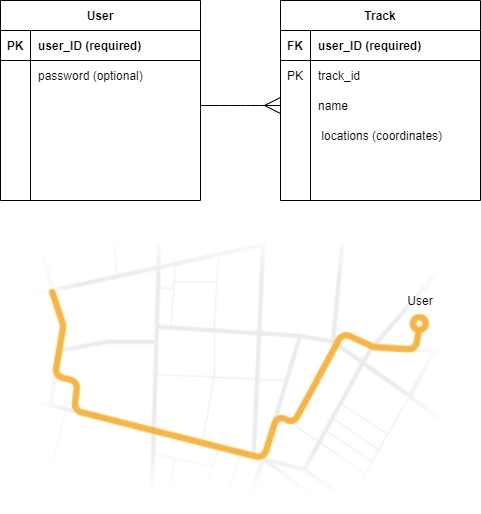
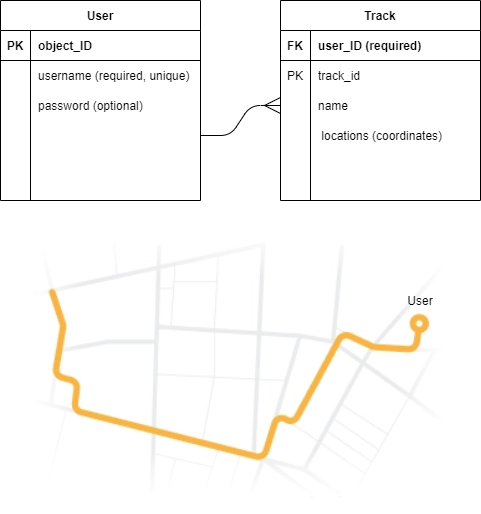
update User model

Changed region(s): [[0.0936, 0.0623, 0.4054, 0.1556], [0.0624, 0.1868, 0.3119, 0.2179], [0.499, 0.1868, 0.5301, 0.2179]]

diff --git a/methods/actions.js b/methods/actions.js
@@ -5,19 +5,19 @@ var config = require('../config/dbconfig')
 var functions = {
     // Register
     addNew: function (req, res) {
-        if ((!req.body._id)) { // || (!req.body.password) 
+        if ((!req.body.username)) { // || (!req.body.password) 
             res.json({success: false, msg: 'Enter all fields'})
         }
         else {
             var newUser = User({
-                _id: req.body._id,
+                username: req.body.username,
                 password: req.body.password
             });
             newUser.save(function (err, newUser) {
                 if (err) {
                     if(err.code == '11000'){
                         res.json({
-                            msg:'This session ID has already been registered, please change your session ID',
+                            msg:'This username has already been registered, please change your username',
                             success:false
                         })
                     }
@@ -34,7 +34,7 @@ var functions = {
     // Login
     authenticate: function (req, res) {
         User.findOne({
-            _id: req.body._id
+            username: req.body.username
         }, function (err, user) {
                 if (err) throw err
                 if (!user) {
@@ -58,7 +58,7 @@ var functions = {
         if (req.headers.authorization && req.headers.authorization.split(' ')[0] === 'Bearer') {
             var token = req.headers.authorization.split(' ')[1]
             var decodedtoken = jwt.decode(token, config.secret)
-            return res.json({success: true, msg: 'Hello ' + decodedtoken._id})
+            return res.json({success: true, msg: 'Hello ' + decodedtoken.username})
         }
         else {
             return res.json({success: false, msg: 'No Headers'})

diff --git a/models/user.js b/models/user.js
@@ -3,14 +3,12 @@ var Schema = mongoose.Schema;
 var bcrypt = require('bcrypt')
 var userSchema = new Schema(
     {
-        _id: {
+        username: {
             type: String,
-            required: [true, 'ID field is required'],
+            required: [true, 'Username field is required'],
             unique: true,
-            trim: true,
-            maxlength: [10, 'ID must be less than 10 chars']
         },
-        password: {
+        password: { // optional
             type: String,
         }
     },

diff --git a/models/track.js b/models/track.js
@@ -1,5 +1,6 @@
 const mongoose = require('mongoose');
 
+// Geolocation API
 const pointSchema = new mongoose.Schema({
     timestamp:Number,
     coords:{

diff --git a/README.md b/README.md
@@ -81,7 +81,10 @@ npm install
 ├── routes
 │   ├── index.js
 ├── ss
+│   ├── architecture.png
+│   ├── database.png
 │   ├── icon.png
+│   ├── icon1.png
 │   ├── icon2.png
 ```
 
